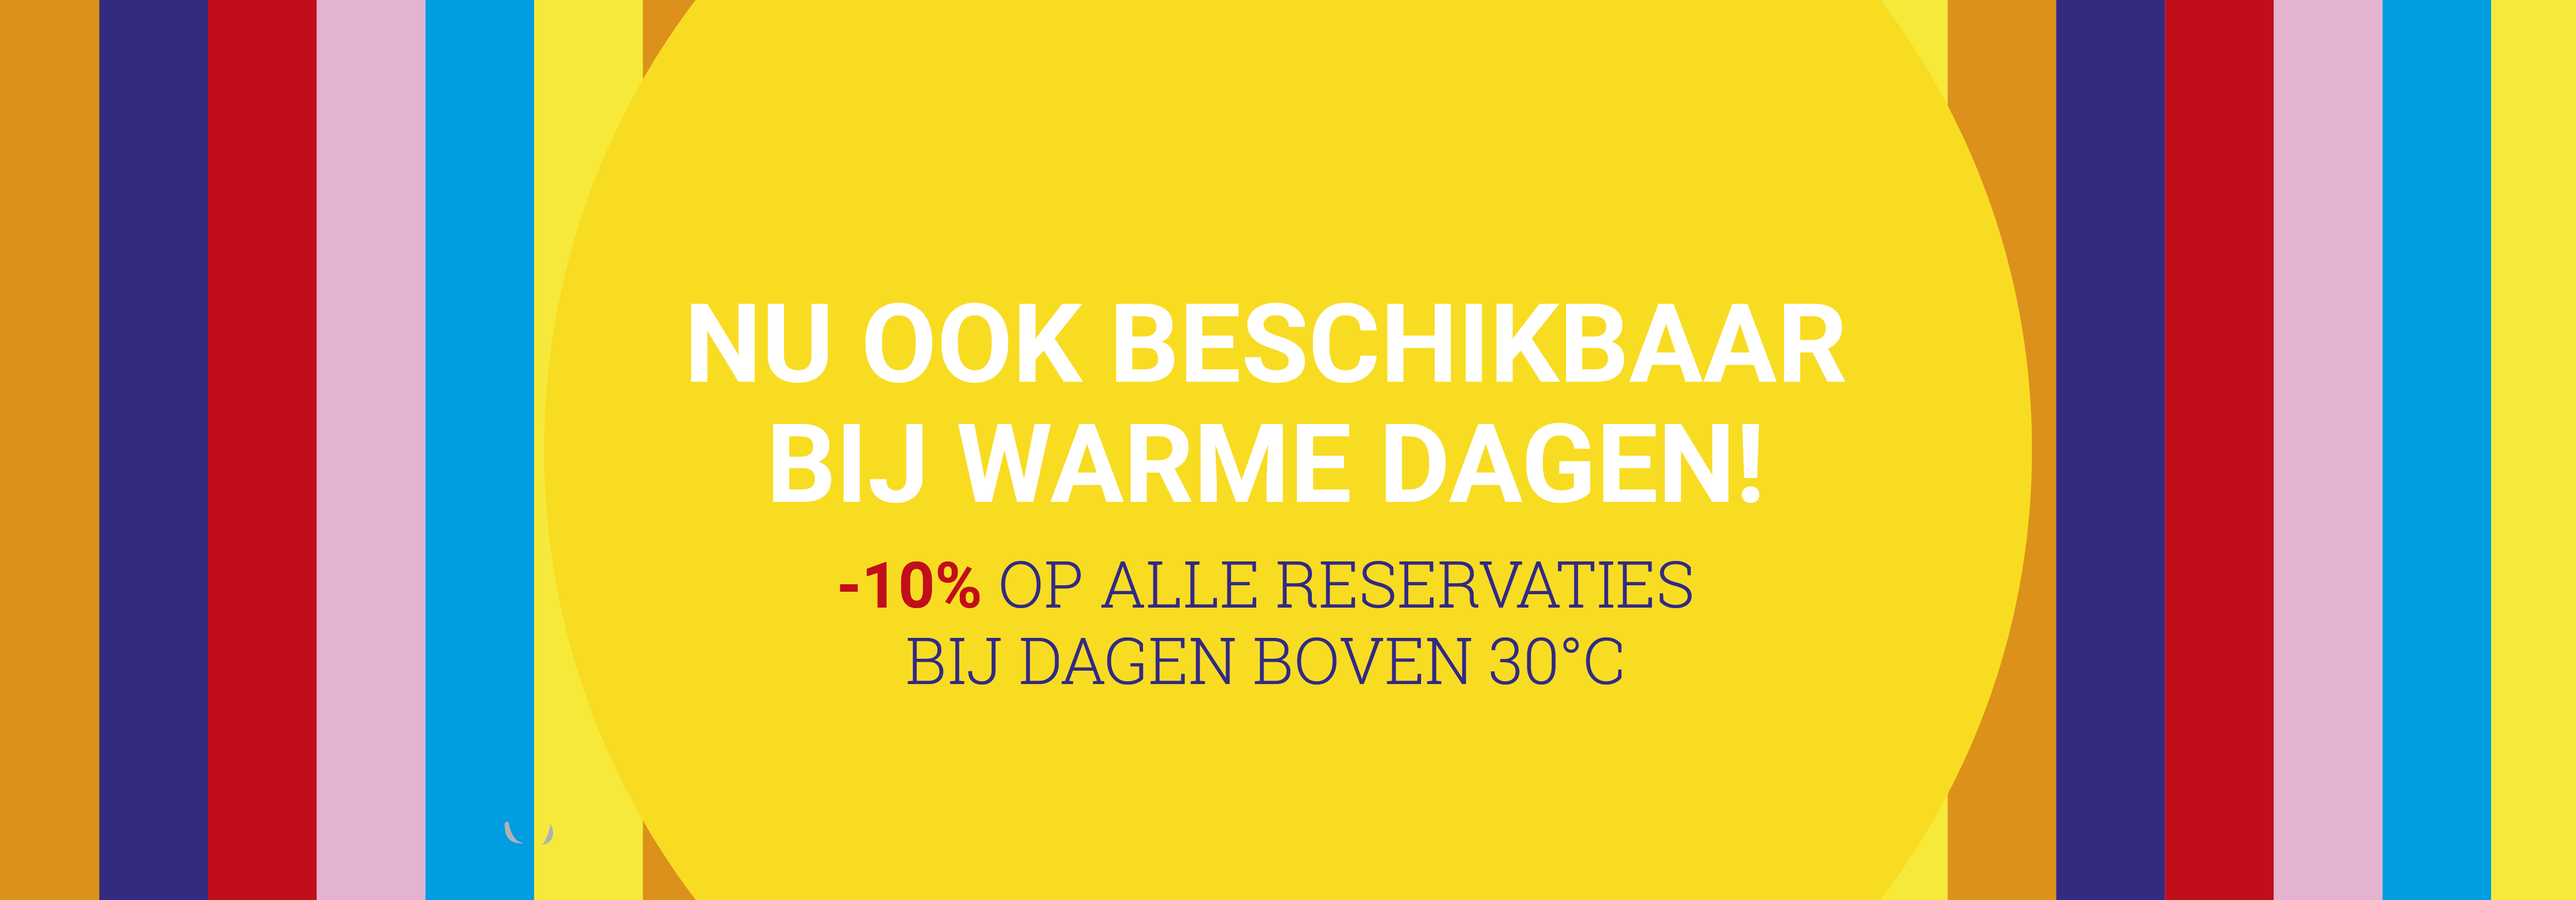
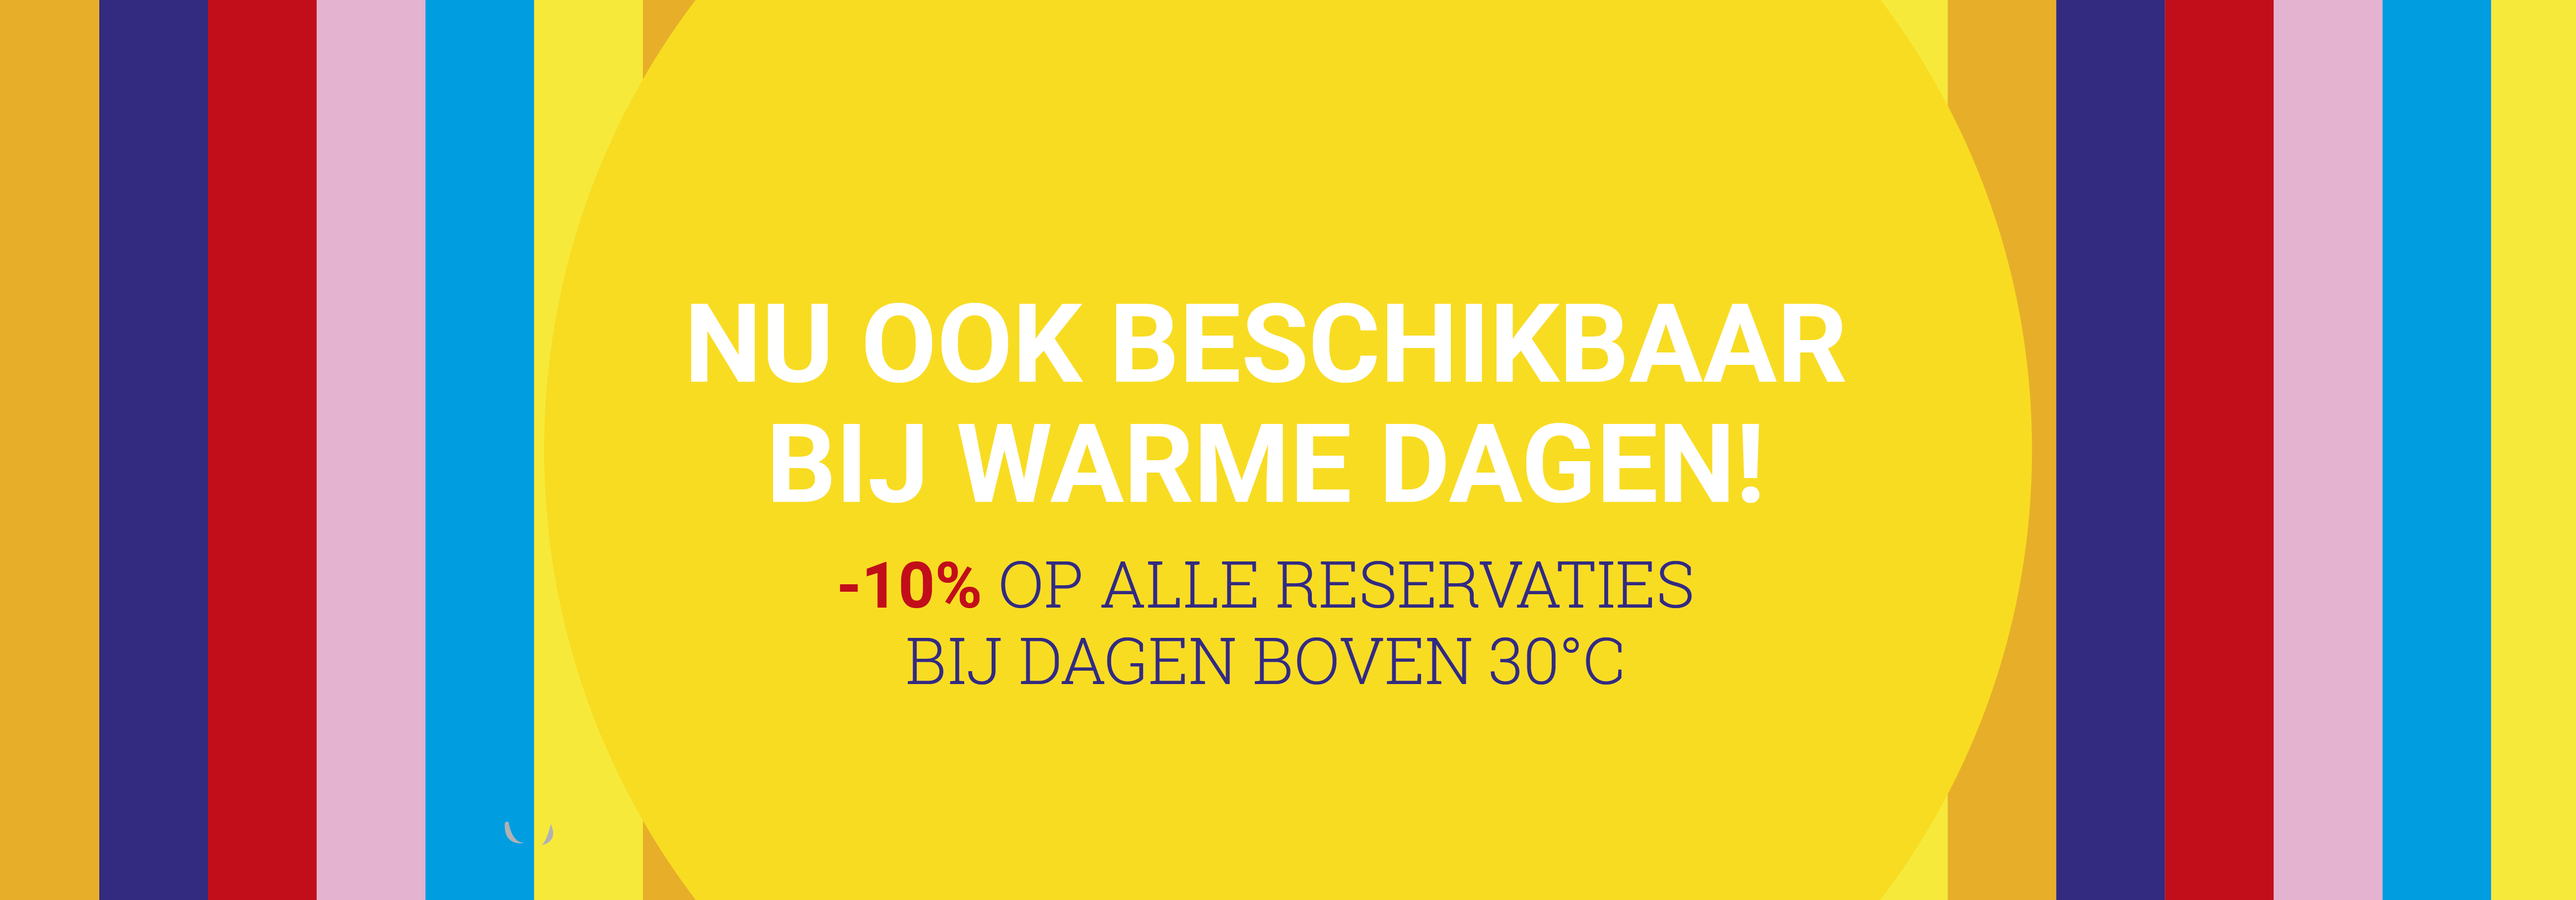
aanpassingen

diff --git a/pages/bestel.html b/pages/bestel.html
@@ -19,10 +19,9 @@ title: Bestel
                 </article>
             </div>
             <div class="col-10 col-md-10 col-lg-5 col-xl-5 kader">
-            
+            <p>
                         <img src="assets/images/stripes2.png" alt="zon" width="100%">
-                      </div>
-              
+                        </p></div>
         
                     
                 </article>
@@ -37,13 +36,13 @@ title: Bestel
                     <div>
                             <div class="btn-toolbar" role="toolbar" aria-label="Toolbar with button groups">
                                     <div class="btn-group mr-2" role="group" aria-label="First group">
-                                        <button type="button" class="btn btn-secondary">ma.</button>
-                                        <button type="button" class="btn btn-secondary">di.</button>
-                                        <button type="button" class="btn btn-secondary">wo.</button>
-                                        <button type="button" class="btn btn-secondary">do.</button>
-                                        <button type="button" class="btn btn-secondary">vr.</button>
-                                        <button type="button" class="btn btn-secondary">za.</button>
-                                        <button type="button" class="btn btn-secondary">zo.</button>
+                                        <button type="button" class="btn btn-secondary dagen">MA</button>
+                                        <button type="button" class="btn btn-secondary dagen">DI</button>
+                                        <button type="button" class="btn btn-secondary dagen">WO</button>
+                                        <button type="button" class="btn btn-secondary dagen">DO</button>
+                                        <button type="button" class="btn btn-secondary dagen">VR</button>
+                                        <button type="button" class="btn btn-secondary dagen">ZA</button>
+                                        <button type="button" class="btn btn-secondary dagen">ZO</button>
                                </div>
                                 </div>
                         <div class="btn-toolbar" role="toolbar" aria-label="Toolbar with button groups">
@@ -103,38 +102,38 @@ title: Bestel
                         </div>
                     </div>
                 </article>
+               
                 <article>
                     <h2>KIES UW TIJDSTIP</h2>
-                    <p>AM</p>
-                    <div class="btn-toolbar" role="toolbar" aria-label="Toolbar with button groups">
-                        <div class="btn-group mr-2" role="group" aria-label="First group">
-                            <button type="button" class="btn btn-secondary btn-secondary-2">7</button>
-                            <button type="button" class="btn btn-secondary btn-secondary-2">8</button>
-                            <button type="button" class="btn btn-secondary btn-secondary-2">9</button>
-                            <button type="button" class="btn btn-secondary btn-secondary-2">10</button>
-                            <button type="button" class="btn btn-secondary btn-secondary-2">11</button>
-                            <button type="button" class="btn btn-secondary btn-secondary-2">12</button>
-                        </div>
-                    </div>
-                    <p>PM</p>
-                    <div class="btn-toolbar" role="toolbar" aria-label="Toolbar with button groups">
-                        <div class="btn-group mr-2" role="group" aria-label="First group">
-                            <button type="button" class="btn btn-secondary btn-secondary-2">1</button>
-                            <button type="button" class="btn btn-secondary btn-secondary-2">2</button>
-                            <button type="button" class="btn btn-secondary btn-secondary-2">3</button>
-                            <button type="button" class="btn btn-secondary btn-secondary-2">4</button>
-                            <button type="button" class="btn btn-secondary btn-secondary-2">5</button>
-                            <button type="button" class="btn btn-secondary btn-secondary-2">6</button>
-                            <button type="button" class="btn btn-secondary btn-secondary-2">7</button>
-                            <button type="button" class="btn btn-secondary btn-secondary-2">8</button>
-                        </div>
-                    </div>
+                        <label for="inputEmail3" class="col-sm-10 col-form-label">Kies uw tijdstip<span class="sterretje">*</span>
+                            <p class="kleine_tekst"></p>
+                        </label></label>
+                        <div class="col-sm-12">
+                                        <select id="inputState" class="form-control">
+                                            <option selected>selecteer uw begin uur</option>
+                                            <option>8 u</option>
+                                            <option>9 u</option>
+                                            <option>10 u</option>
+                                            <option>11 u</option>
+                                            <option>12 u</option>
+                                            <option>13 u</option>
+                                            <option>14 u</option>
+                                            <option>15 u</option>
+                                            <option>16 u</option>
+                                            <option>17 u</option>
+                                            <option>18 u</option>
+                                            <option>19 u</option>
+                                            <option>20 u</option>
+                                            <option>21 u</option>
+                                            <option>22 u</option>
+                                           
+                                        </select>
                 </article>
             </div>
         </div>
         <div class="row justify-content-center">
                 <div class="col-10 col-md-10 col-lg-10 col-xl-10">
-                    <a class="btn btn-primary" href="gegevens.html" role="button">Persoonlijke gegevens</a>
+                    <a class="btn btn-primary" href="gegevens.html" role="button">PERSOONLIJKE GEGEVENS</a>
                 </div>
         </div>
     </div>

diff --git a/pages/betalen.html b/pages/betalen.html
@@ -14,11 +14,7 @@ title: Betalen
                 <article>
                     <h2>BETALINGSMETHODE</h2>
                     <div class="custom-controls-stacked">
-                        <label class="custom-control custom-radio">
-                            <input id="radioStacked3" name="radio-stacked" type="radio" class="custom-control-input">
-                            <span class="custom-control-indicator"></span>
-                            <span class="custom-control-description">Banctontact</span>
-                        </label>
+                      
                         <label class="custom-control custom-radio">
                             <input id="radioStacked4" name="radio-stacked" type="radio" class="custom-control-input">
                             <span class="custom-control-indicator"></span>
@@ -29,21 +25,13 @@ title: Betalen
                             <span class="custom-control-indicator"></span>
                             <span class="custom-control-description">Maestro</span>
                         </label>
-                        <label class="custom-control custom-radio">
-                            <input id="radioStacked4" name="radio-stacked" type="radio" class="custom-control-input">
-                            <span class="custom-control-indicator"></span>
-                            <span class="custom-control-description">Mastercard</span>
-                        </label>
+
                         <label class="custom-control custom-radio">
                             <input id="radioStacked4" name="radio-stacked" type="radio" class="custom-control-input">
                             <span class="custom-control-indicator"></span>
                             <span class="custom-control-description">Paypal</span>
                         </label>
-                        <label class="custom-control custom-radio">
-                            <input id="radioStacked4" name="radio-stacked" type="radio" class="custom-control-input">
-                            <span class="custom-control-indicator"></span>
-                            <span class="custom-control-description">American Express</span>
-                        </label>
+                    
                     </div>
                 </article>
                 <article>
@@ -61,7 +49,7 @@ title: Betalen
                             <div class="col-sm-7">
                                 <input  class="form-control" placeholder="mm/jj">
                             </div>
-                            <label for="inputEmail3" class="col-sm-5 col-form-label">Verificatiecode kaart<span class="sterretje">*</span></label>
+                            <label for="inputEmail3" class="col-sm-5 col-form-label">Verificatiecode<span class="sterretje">*</span></label>
                             <div class="col-sm-7">
                                     <input class="form-control">
                             </div>
@@ -82,7 +70,7 @@ title: Betalen
         </div>
         <div class="row justify-content-center">
                 <div class="col-10 col-md-10 col-lg-10 col-xl-10">
-                    <a class="btn btn-primary" href="bevestiging.html" role="button">Ik bevestig mijn betaling</a>
+                    <a class="btn btn-primary" href="bevestiging.html" role="button">IK BEVESTIG MIJN BETALING</a>
                 </div>
         </div>
     </div>

diff --git a/pages/gegevens.html b/pages/gegevens.html
@@ -62,7 +62,7 @@ title: Gegevens
                             </label></label>
                             <div class="col-sm-7">
                                             <select id="inputState" class="form-control">
-                                                <option selected>Met hoeveel personen wilt u onder de paraplu?</option>
+                                                <option selected>selecteer het aantal personen</option>
                                                 <option>1</option>
                                                 <option>2</option>
                                                 <option>3</option>
@@ -76,7 +76,7 @@ title: Gegevens
                             </label></label>
                             <div class="col-sm-7">
                                             <select id="inputState" class="form-control">
-                                                <option selected>Naar waar gaan we?</option>
+                                                <option selected>selecteer de activiteit</option>
                                                 <option>winkel</option>
                                                 <option>sportactiviteit</option>
                                                 <option>school</option>
@@ -90,7 +90,7 @@ title: Gegevens
                             </label></label>
                             <div class="col-sm-7">
                                             <select id="inputState" class="form-control">
-                                                <option selected>aantal uur</option>
+                                                <option selected>selecteer het aantal uuraantal uur</option>
                                                 <option>30min</option>
                                                 <option>1uur</option>
                                                 <option>1,5uur</option>
@@ -117,7 +117,7 @@ title: Gegevens
         </div>
         <div class="row justify-content-center">
                 <div class="col-10 col-md-10 col-lg-10 col-xl-10">
-                    <a class="btn btn-primary" href="betalen.html" role="button">Betalen</a>
+                    <a class="btn btn-primary" href="betalen.html" role="button">BETALEN</a>
                 </div>
         </div>
     </div>

diff --git a/pages/index.html b/pages/index.html
@@ -58,7 +58,7 @@ title: Homepagina
         <div class="row justify-content-center">
             <div class="col-10 col-md-10 col-lg-5 col-xl-5 kader kader-images ">
                 <img src="" alt="" class="breedte justify-content-left">
-                <img src="assets/images/stripes.png" alt="zon" class="ervaring-foto" width="150%">
+                <img src="assets/images/stripes2.png" alt="zon" class="ervaring-foto" width="150%">
                 <article>   
                     <h2 class="nieuw">NIEUW!</h2>
                     <p>NU OOK TIJDENS WARME DAGEN!<br>
@@ -71,8 +71,11 @@ title: Homepagina
                     <h2>PRAKTISCH</h2>
                     <h2>Prijzen</h2>
                     <p>per 30min : €50<br>
-                    3uur: €275<br>
-                    Per half uur dat er extra bij komt : €60
+                    3uur: €275<br><br>
+                    prijzen vanaf 2e paraplu<br><br>
+                    per 30min : €35 extra <br>
+                    3uur: €200 extra<br>
+                    
                     </p>
                     <h2>Hoe lang</h2>
                     <p>Je kan me reserveren per half uur, minimaal 1 halfuur, maximaal 7 halfuren (3u30).</p>
@@ -121,7 +124,7 @@ title: Homepagina
                 <article class="article_2">
                     
                     <h2>Marijke, Jef en Marie</h2>
-                    <p>Heel handige service! Met de 2 mijn tweeling heb ik steeds mijn handen vol. Een paraplu dragen kan er dan echt niet meer bij.
+                    <p>Heel handige service! Met mijn tweeling heb ik steeds mijn handen vol. Een paraplu dragen kan er dan echt niet meer bij.
                     Met Umbrellady heb ik de oplossing gevonden. Geen huilende natte peuters meer!
         
                     </p>

diff --git a/assets/css/app.scss b/assets/css/app.scss
@@ -40,6 +40,8 @@ h3{
     color: #E15200;
 }
 
+
+
 .breedte{
     width:100%;
     display: block;
@@ -49,7 +51,7 @@ h3{
 }
 
 .vraag{
-    color:#3A68A8s;
+    color:#3A68A8;
     
 }
 .carousel-caption {
@@ -73,7 +75,7 @@ p {
 }
 
 .verplicht{
-    color: #000000;
+    color: red;
 }
 
 
@@ -95,7 +97,7 @@ article{
 
 .kader{
     background-color: white;
-    border: 10px solid #000000;
+    border: 10px solid rgb(228,179,208);
     margin-top: 5px;
 }
 
@@ -153,20 +155,20 @@ tr{
 
 
 .navbar-light .navbar-nav .active > .nav-link,{
-    color:#3A68A8;
+    color:#ffff;
     text-decoration: none;
 }
 
 .navbar-light .navbar-nav .nav-link{
-    color:#3A68A8;
-}
-
-.navbar-light .navbar-nav .nav-link:hover{
     color:#ffffff;
 }
 
+.navbar-light .navbar-nav .nav-link:hover{
+    color:#3A68A8;
+}
+
 .navbar-light .navbar-nav .nav-link:active{
-    color: rgb(234,182,24);
+    color:rgb(234,182,24);
 
 }
 
@@ -268,6 +270,12 @@ ul{
     border-color: #3A68A8;
 }
 
+.dagen {
+    color: #fff;
+    background-color:rgb(228,179,208);
+    border-color:rgb(228,179,208);
+}
+
 .form-control {
     color: white;
     background-color: #3A68A8;
@@ -277,8 +285,6 @@ ul{
 }
 .form-control:focus {
     color:#000000;
-    background-color: #ffffff;
-    box-shadow:#3A68A8; 
 }
 .form-control::placeholder {
     color:#ffffff;
@@ -289,11 +295,11 @@ ul{
     z-index: -1;
     opacity: 0; 
 }
-.custom-control-input:focus ~ .custom-control-indicator {
-        box-shadow: none; 
+.custom-control-input:focus ~ .custom-control-indicator{
+        box-shadow:grey; 
 }
-.custom-control-input:active ~ .custom-control-indicator {
-        background-color: rgb(127,119,112); 
+.custom-control-input:active ~ .custom-control-indicator{
+        background-color:grey; 
 }
 
 

diff --git a/pages/bevestiging.html b/pages/bevestiging.html
@@ -11,9 +11,9 @@ title: Bevestiging
         <div class="row justify-content-center">
             <div class="col-10 kader">
                 <article>
-                    <h2>Bedankt voor uw bestelling!</h2>
+                    <h2>BEDANKT VOOR UW BESTELLING!</h2>
                     <p>
-                       Wij gaan nu aan de slag met het nakijken van uw bestellen. <br>U mag van ons binnen de 24uur een bevestigingsmail ontvangen.
+                       Wij gaan nu aan de slag met het nakijken van uw bestelling. <br>U mag van ons binnen de 24uur een bevestigingsmail ontvangen.
                        <br>Is dit niet zo? Contacteer ons op 0032 471 04 01 27 of via mail, hello@umbrellady.be.
                     </p>
                 </article>
@@ -21,7 +21,7 @@ title: Bevestiging
         </div>
         <div class="row justify-content-center">
             <div class="col-10 col-md-10 col-lg-10 col-xl-10">
-                <a class="btn btn-primary" href="index.html" role="button">Terug naar de homepagina</a>
+                <a class="btn btn-primary" href="index.html" role="button">Homepagina</a>
             </div>
         </div>
     </div>

diff --git a/_includes/footer.html b/_includes/footer.html
@@ -11,13 +11,16 @@
                     <p>Eva Vanden Broeck © 2018 Herexamen                      
                     </p>
                 </div>
-                <div class="col-2 kleine_tekst">
+                <div class="col-4 kleine_tekst">
                         <p>hello@umbrellady.be
                                 <br>032 471 04 01 27
+                            
                     </div>
-                <div class="col-4 kleine_tekst">
+                <div class="col-2 kleine_tekst">
                     <a href="disclaimer.html">
-                        <p align="right">Disclaimer</p>
+                        <p align="right">Disclaimer
+                            
+                        </p>
                     </a>
                 
                 </div>
